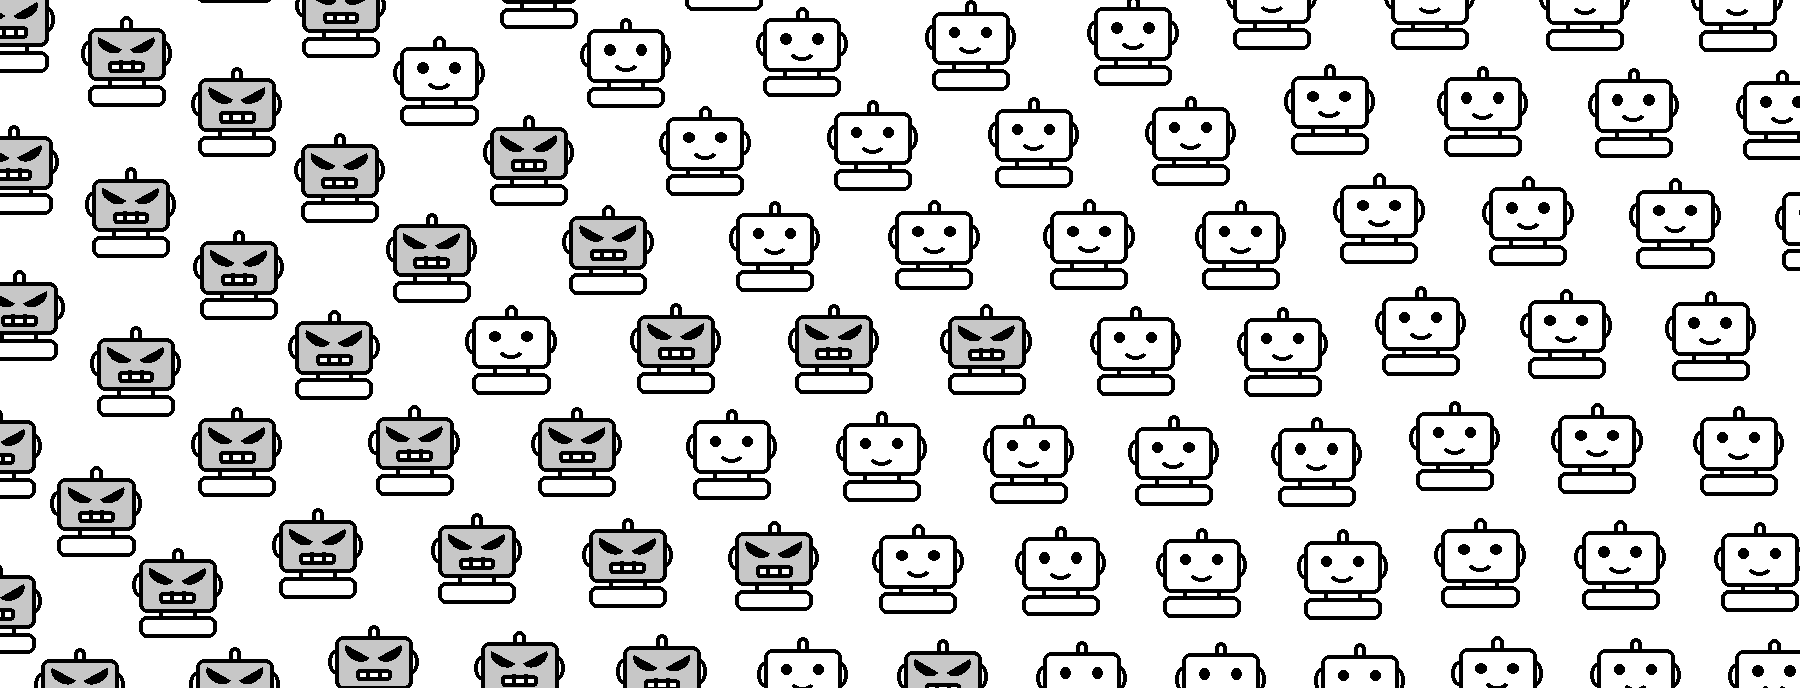
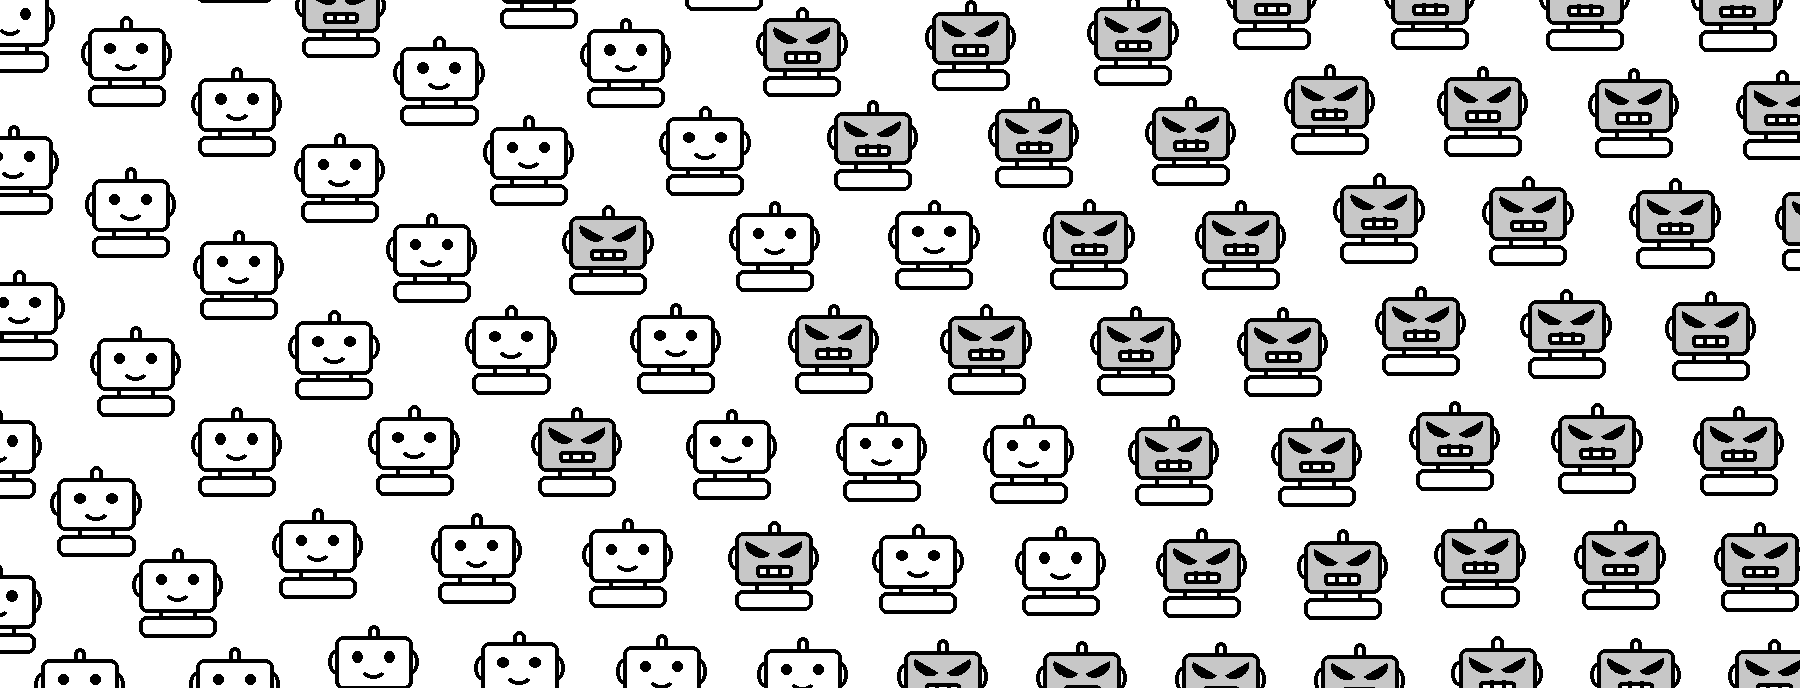
Make the EM header friendly at the centre and evil toward the outside

diff --git a/scripts/em_header.py b/scripts/em_header.py
@@ -1,5 +1,5 @@
-"""Draw the emergent misalignment post header: a brick grid of robot heads, friendly on the
-left and turning evil toward the right, already in the three tones the other headers use.
+"""Draw the emergent misalignment post header: rings of robot heads around the bottom-left
+corner, friendly near it and turning evil outward, already in the three tones the other headers use.
 
     uv run --with pillow --with numpy python scripts/em_header.py
 """
@@ -52,8 +52,8 @@ def robot(d: ImageDraw.ImageDraw, x0: float, y0: float, s: float, evil: bool) ->
 
 
 def header(width: int, rows: int, seed: int = 3, reach: float = 8, spread: float = 5) -> Image.Image:
-    """Robots sit on concentric rings around the bottom-left corner, evil near it and turning
-    friendly ring by ring as misalignment thins out; rows sets the robot size as height / rows."""
+    """Robots sit on concentric rings around the bottom-left corner, friendly near it and turning
+    evil ring by ring toward the outside; rows sets the robot size as height / rows."""
     height = round(width / RATIO)
     im = Image.new("L", (width, height), PAPER)
     d = ImageDraw.Draw(im)
@@ -72,7 +72,7 @@ def header(width: int, rows: int, seed: int = 3, reach: float = 8, spread: float
             cx, cy = origin + radius * np.array([np.cos(theta), -np.sin(theta)])
             if not (-s / 2 < cx < width + s / 2 and -s / 2 < cy < height + s / 2):
                 continue
-            evil = rng.random() < np.clip((reach - ring) / spread + 0.5, 0, 1)
+            evil = rng.random() < np.clip((ring - reach) / spread + 0.5, 0, 1)
             robot(d, cx - s / 2, cy - s / 2, s, evil)
         ring += 1
     return im
